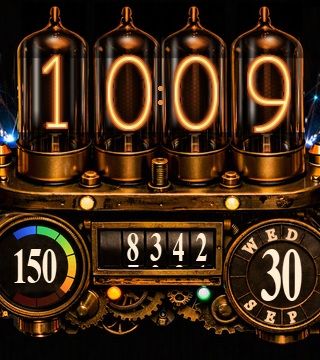
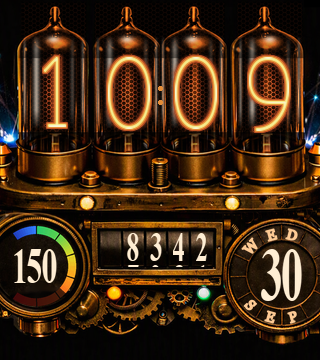
feat(ciq): the anode mesh drawn as a lighter red (d05227)
The mesh was an OCCLUDER: it darkened the glass behind the digits, which is what
buys digit contrast on a near-black field (11.5:1 on the eroded glyph core).
The user asked for it to read as a lighter red, d05227, which is the other
polarity - the wires drawn as coloured light (MESH_DARKEN = 0, MESH_RGB set to
that colour in as-seen space, so the pre-correction lands it on the panel).

Measured on the rendered frame: with MESH_ALPHA 1.5 the wires add (105,43,22) at
their peaks - about half the requested colour, a 0.6 source-px wire only
part-covers a pixel - and the glyph core holds 6.6:1 against the glass, still
above this project's bar. The two ways to deepen the colour both cost the same
kind of contrast: MESH_ALPHA 2.0 gives (122,57,28) at 5.8:1 (below the bar), and
widening MESH_W_SRC deepens it at a similar price.

Screenshots and the store upload set regenerated.

diff --git a/ciq/prepare_artwork.py b/ciq/prepare_artwork.py
@@ -167,17 +167,25 @@ GLASS_GAMMA = 1.35               # mid-tone push-down; higher = darker, clearer 
 # user's reference photo reads as much by its honeycomb as by its colour. 0 = off. Visibility
 # follows the digit's own haze (MESH_GAIN), so the mesh lights up with the glow instead of being a
 # uniform printed texture.
-MESH_ALPHA = 0.55
-MESH_RGB = (1.0, 0.72, 0.42)
+# The user asked for the mesh to read as a LIGHTER RED behind the digits: d05227. That is the mesh
+# drawn as coloured light (MESH_DARKEN = 0) with MESH_RGB set to that colour in as-seen space - the
+# baked art is pre-corrected on the way out, so the panel shows the requested colour. Measured on the
+# rendered frame, the wires ADD (105,43,22) at their peaks against 0.6 px wires: about half the
+# requested colour, because a 0.6 source-px wire only part-covers a pixel. The cost is legibility,
+# measured on the eroded glyph core: the darkening mesh held 11.5:1, this holds 6.6:1 at
+# MESH_ALPHA 1.5 (and 5.8:1 at 2.0, below this project's bar). Widening MESH_W_SRC is the other way
+# to deepen the colour, at a similar contrast price.
+MESH_ALPHA = 1.5
+MESH_RGB = (0.816, 0.322, 0.153)   # (208, 82, 39) = d05227
 MESH_R_SRC = 5.35                # hexagon circumradius on the 1024 grid (~14 cells across a tube)
 MESH_W_SRC = 0.6                 # wire width, source px (drawn supersampled, see _hex_mesh)
 MESH_SS = 6                      # supersampling factor for the mesh mask
 MESH_GAIN = 1.6                  # how strongly the local haze brightens the mesh
 MESH_BASE = 0.10                 # how visible the mesh is away from the glow
-# The wires can be drawn either as light added to the glass (glow, the reference's own look on its
-# bright glass) or as an OCCLUDER that darkens the glass behind them. Darkening is what buys digit
-# contrast on our near-black glass, so it is the default; MESH_RGB is unused in that mode.
-MESH_DARKEN = 1.0
+# 1.0 = the wires occlude (darken) the glass, 0 = they are drawn as coloured light. The occluder
+# polarity is what buys digit contrast on a near-black field; the user's request for a lighter red
+# mesh is the coloured-light polarity, so this ships as 0 and MESH_RGB is live.
+MESH_DARKEN = 0.0
 # How much the tube's interior glass is LIT (0 = the current near-black glass). The reference
 # photo's tubes are bright amber, interior luminance ~0.33 against a 0.89 digit - which is what
 # actually makes that picture read as it does, far more than the mesh.
